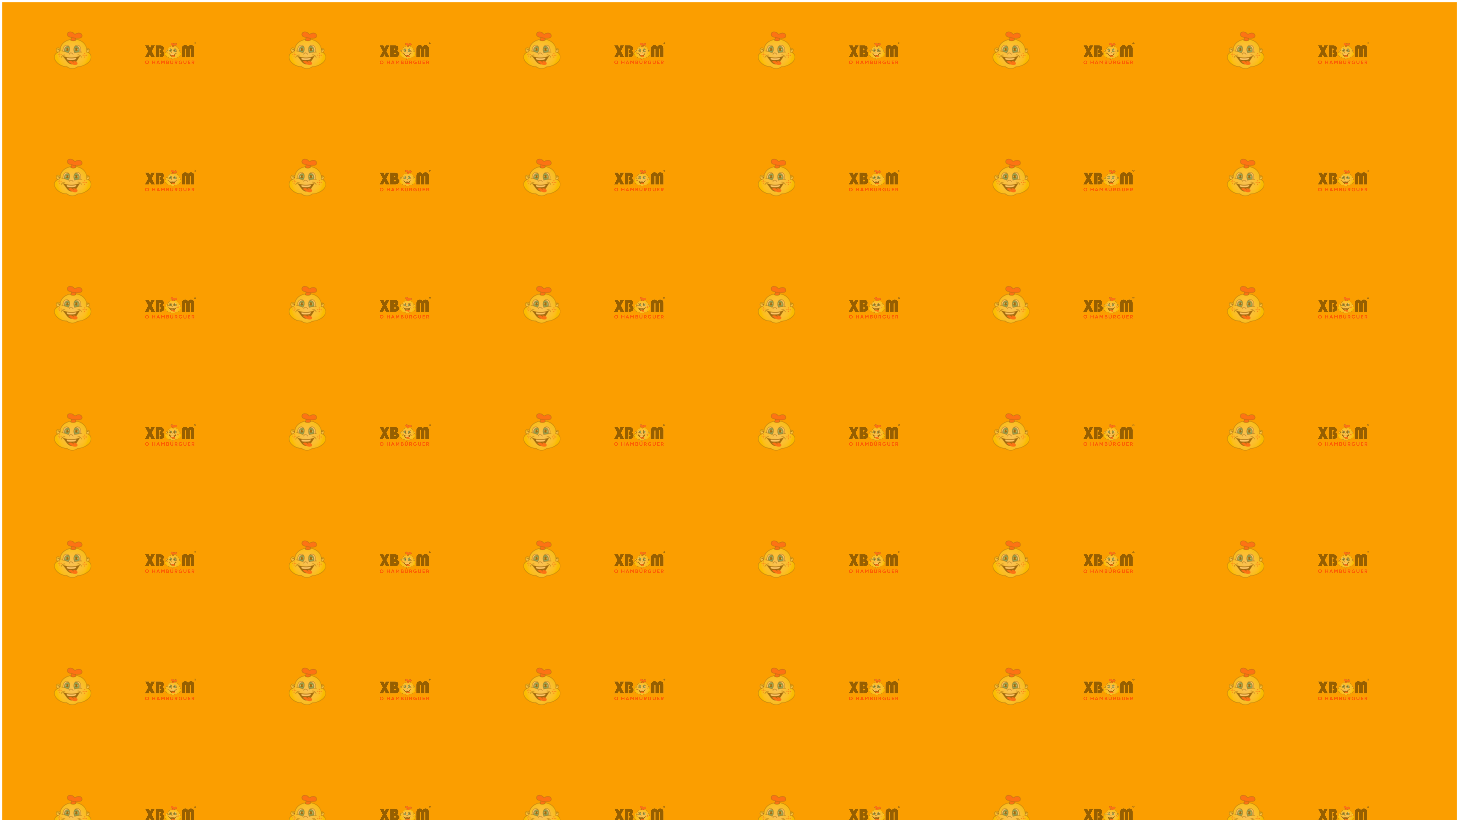
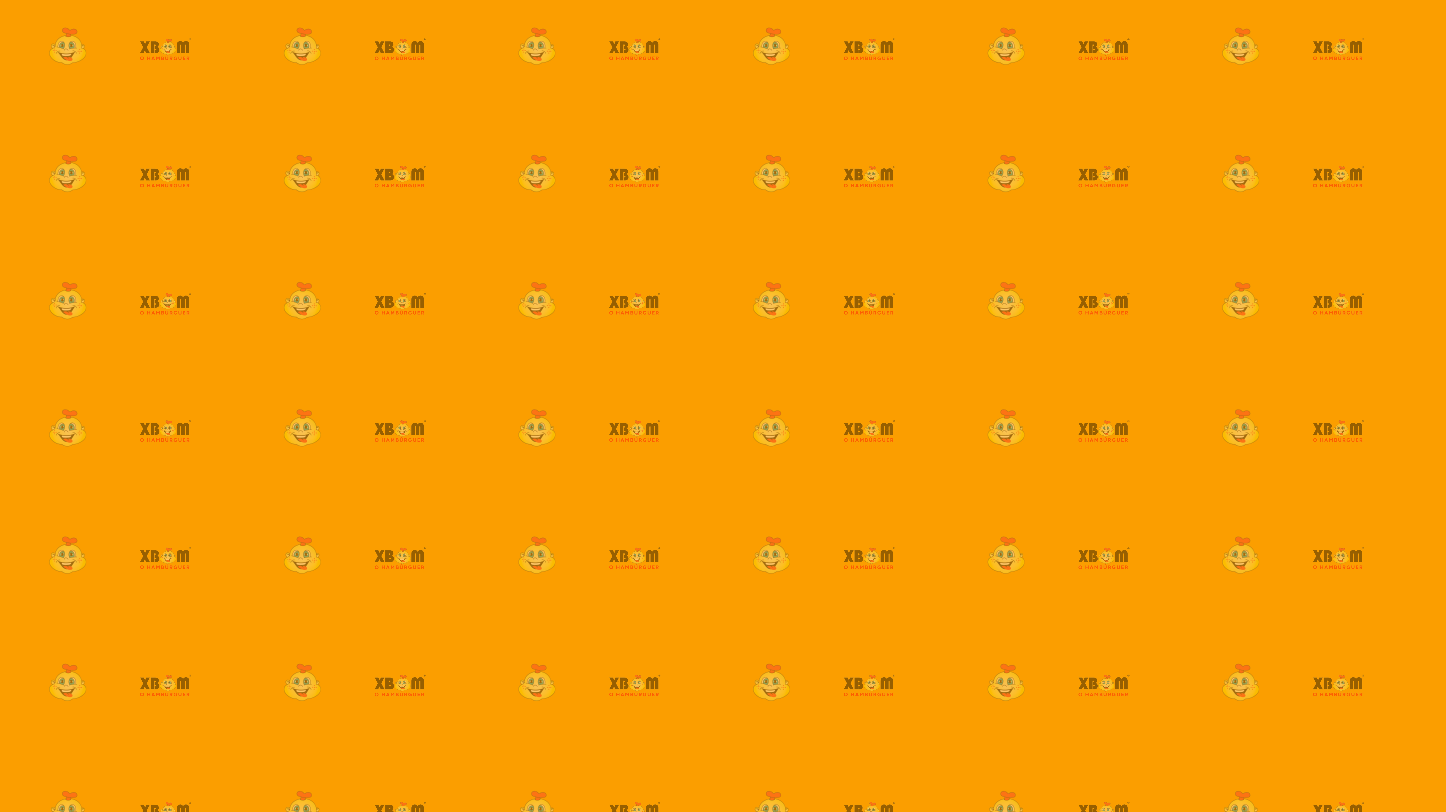
style(xbom background.png, filasenhas.css, index.css): mudança do background

diff --git a/src/index.css b/src/index.css
@@ -3,9 +3,11 @@ body {
   font-family: -apple-system, BlinkMacSystemFont, 'Segoe UI', 'Roboto', 'Oxygen', 'Ubuntu', 'Cantarell', 'Fira Sans', 'Droid Sans', 'Helvetica Neue', sans-serif;
   -webkit-font-smoothing: antialiased;
   -moz-osx-font-smoothing: grayscale;
-  background-image: url('/public/Xbom\ background.png');
-  background-size: cover;
-  background-repeat: no-repeat;
+  background-image: url('/public/Xbom background.png');
+  background-repeat: repeat-y;
+  background-size: 1557px;
+  border: none;
+  padding: -10;
 }
 
 code {

diff --git a/src/components/FilaSenhas/FilaSenhas.css b/src/components/FilaSenhas/FilaSenhas.css
@@ -4,6 +4,7 @@
   width: 45%;
   background:#FDBF1E;
   text-align: center;
+  
 }
 
 .formulario-senha {
